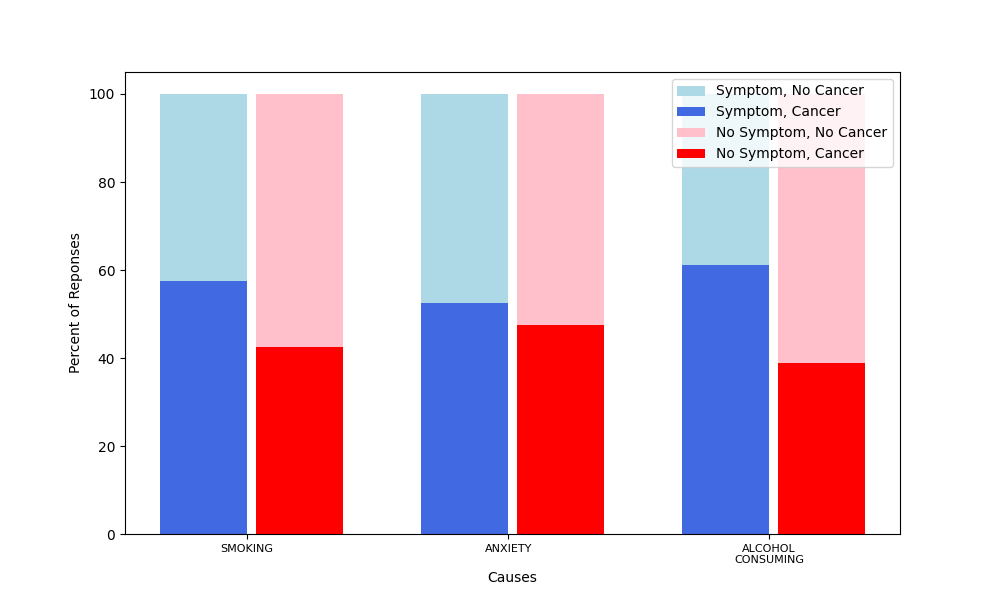
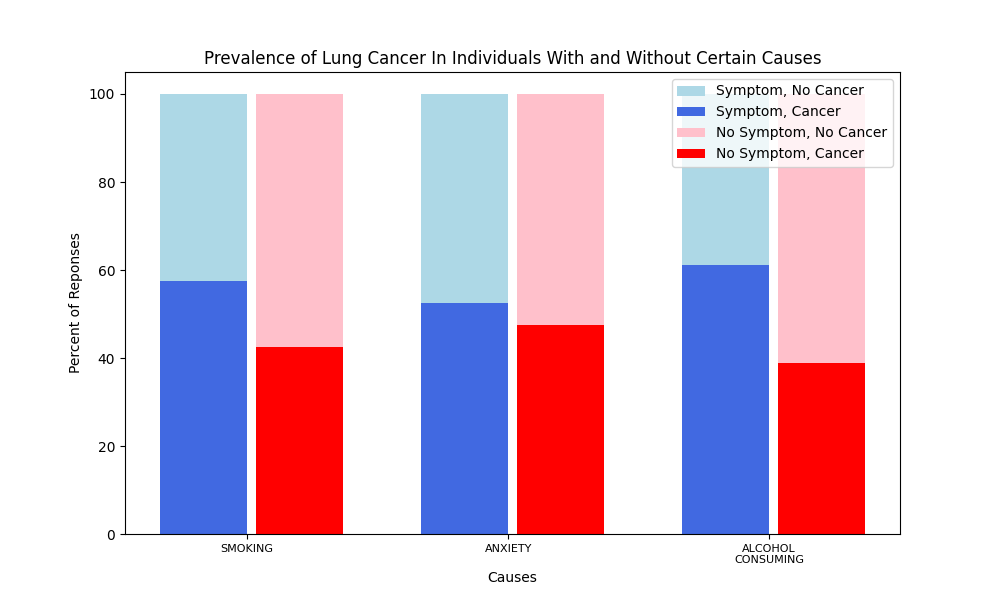
added titles

Changed region(s): [[0.186, 0.09, 0.837, 0.12]]

diff --git a/lung-cancer/visualize.py b/lung-cancer/visualize.py
@@ -55,12 +55,12 @@ def plot(method):
 
     # settings for plot
     stat_count = len(yes_symptom_yes_cancer)
-    x_size, y_size = stat_count, stat_count / 2
+    x_size, y_size = 10, 6
     fig = plt.figure(figsize=(x_size, y_size))
     bar_width = x_size / stat_count / 3
 
     # determines x-axis
-    x_axis = np.arange(1, stat_count+1, 1)
+    x_axis = np.arange(0, x_size, x_size / stat_count)
 
     # plots yes_cancer bar
     plt.bar(x_axis, yes_symptom_no_cancer, bar_width, color="lightblue", label="Symptom, No Cancer")
@@ -70,10 +70,10 @@ def plot(method):
     plt.bar(x_axis + bar_width * 1.1, no_symptom_yes_cancer, bar_width, color="red", label="No Symptom, Cancer")
 
     # sets labels
-    plt.xticks(x_axis + bar_width / 2, map(add_newlines, df.keys()), fontsize=5)
+    plt.xticks(x_axis + bar_width / 2, map(add_newlines, df.keys()), fontsize=8)
     plt.xlabel(x_label)
     plt.ylabel("Percent of Reponses")
-    plt.title("")
+    plt.title(f"Prevalence of Lung Cancer In Individuals With and Without Certain {x_label}")
 
     # shows figure
     plt.legend(loc="best")
